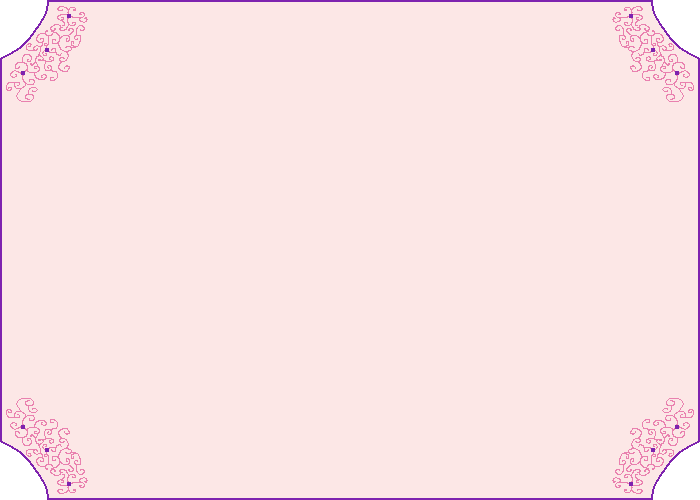
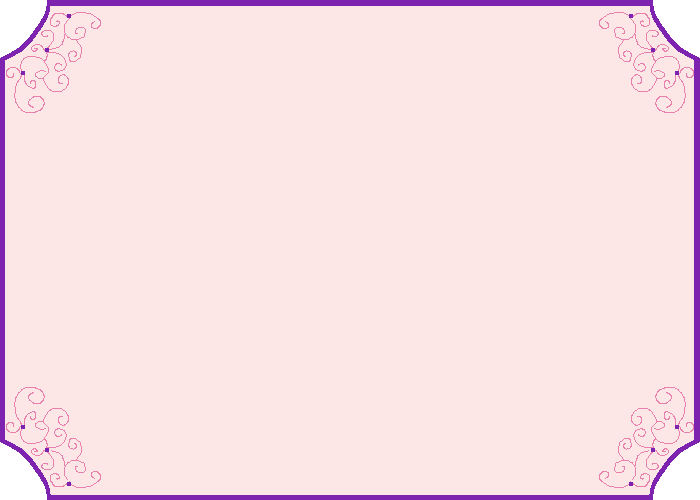
UI cleanup
- New backgrounds implemented

Changed region(s): [[0.0, 0.0, 1.0, 1.0]]

diff --git a/Queens Cup/Assets/Scripts/Rules.cs b/Queens Cup/Assets/Scripts/Rules.cs
@@ -21,7 +21,7 @@ public class Rules : MonoBehaviour
     public static string[] jacks = new string[] { "Takeout:\nPick a person. Play Chopsticks. Loser drinks." };
     public static string[] queens = new string[] { "Outlier:\nEveryone but you drinks.", 
                                                    "Resurrection:\nBring a player back into the game." };
-    public static string[] kings = new string[] { "Draw!:\n another card and do that rule twice.", 
+    public static string[] kings = new string[] { "Draw!:\n Draw another card and do that rule twice.", 
                                                   "Father and Son:\nChoose a prince to drink with you until another king is drawn." };
     public static string[] aces = new string[] { "Compliments to the Chef:\nCompliment someone aggressively until you can’t think of a compliment or you laugh.  Don’t repeat compliments.",
                                                  "Alphabet:\nsay a word starting with “A” - “Z”, if you’re can’t think of a word drink " };
